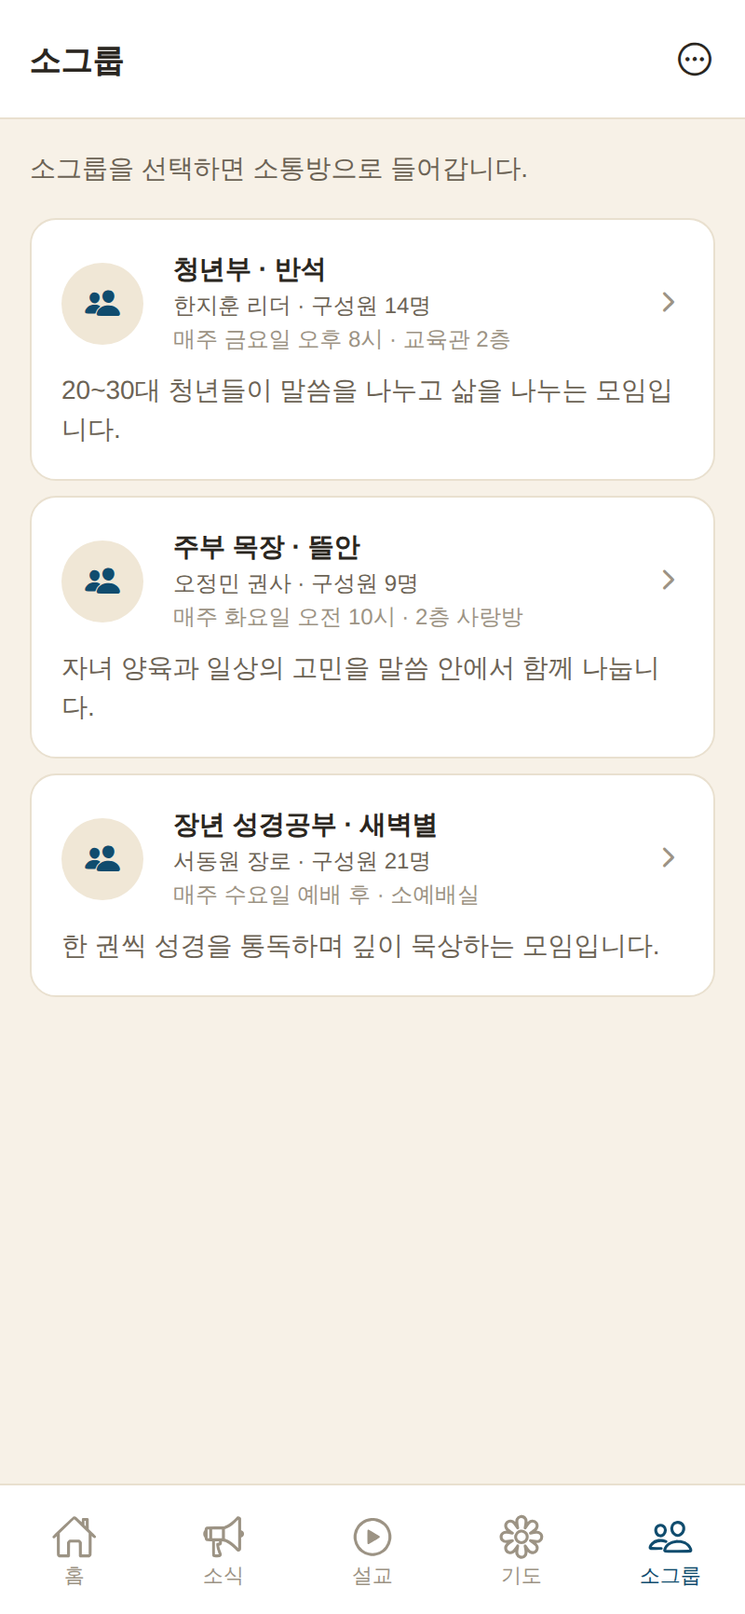
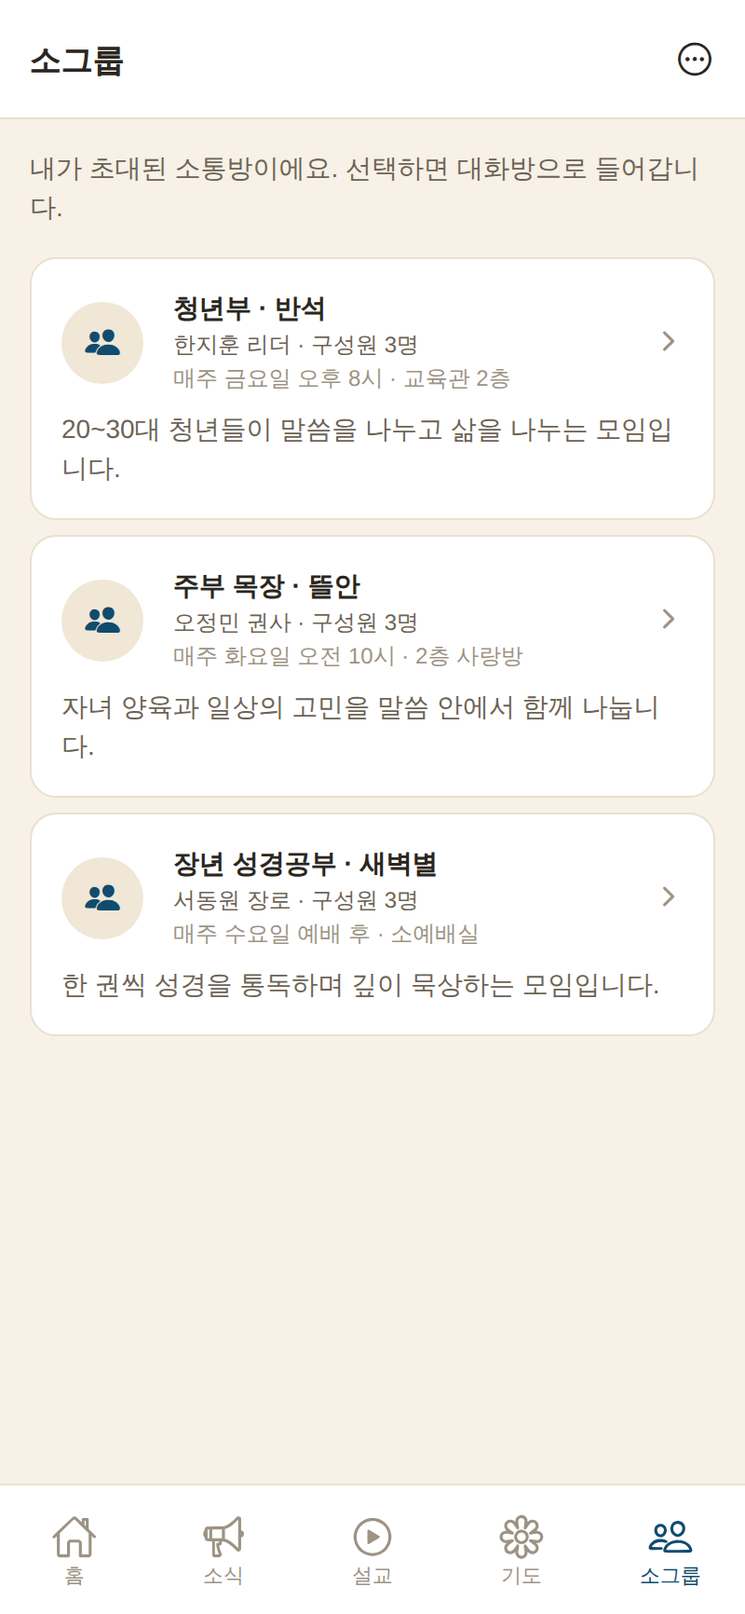
사용설명서 업데이트: 소통방·기도 알림 3개·기도노트·기도제목 수정삭제
- 스크린샷 재촬영(소통방 방/멤버, 기도 알림 3개, 기도노트 카운터 등)
- 스크린샷 사용설명서 PDF 재생성, 사용설명서.md에 소통방 섹션·3개 알림·수정삭제 반영
- capture.js/build_manual.js 갱신(소통방 촬영, 알림 3개 플로우)

Claude-Session: https://claude.ai/code/session_01X34HoGSMxeUnKsbYKVCM6r

diff --git a/docs/manual-src/shots/manual.html b/docs/manual-src/shots/manual.html
@@ -28,7 +28,7 @@
   .tip .chip { background:#eee2c9; border-color:#e4d5b4; color:#6a5836; }
   .foot { text-align:center; color:#8a97a1; font-size: 9.5pt; margin-top: 8px; line-height:1.7; }
 </style></head><body>
-  <div class="cover"><div class="logo">⛪</div><h1>구리 목양교회 앱 사용설명서</h1><div class="sub">화면별 사용 안내 · 2026-09-07</div></div>
+  <div class="cover"><div class="logo">⛪</div><h1>구리 목양교회 앱 사용설명서</h1><div class="sub">화면별 사용 안내 · 2026-09-08</div></div>
   <div class="intro">화면별로 어떻게 쓰는지 하나씩 안내해 드립니다.</div>
   <div class="section">
     <div class="sechead">
@@ -75,16 +75,16 @@
 <div class="section">
     <div class="sechead">
       <div class="badge" style="background:#c1863a">🔔</div>
-      <div><div class="kicker">기도 · 새 기능</div><div class="title">기도 알림</div></div>
+      <div><div class="kicker">기도 · 새 기능</div><div class="title">기도 알림 (최대 3개)</div></div>
     </div>
-    <div class="shotwrap"><img class="phone" src="reminders.png"><div class="cap">기도 알림 설정</div></div><div class="ditem"><span class="chev">›</span><span>정한 <b>요일과 시간</b>에 “기도할 시간이에요 🙏” 알림을 휴대폰으로 받습니다.</span></div><div class="dhead">켜는 방법</div><div class="ditem"><span class="chev">›</span><span>기도 탭 → <b>기도 알림</b>으로 들어가 <b>알림 켜기</b>를 누르고 권한을 <b>허용</b>합니다.</span></div><div class="ditem"><span class="chev">›</span><span><b>요일</b>(여러 개 가능)을 켜고, <b>시간</b>은 <span class="chip">오전</span>/<span class="chip">오후</span> · <b>시(1~12)</b> · <b>분(00~59)</b> 으로 정한 뒤 <b>저장</b>.</span></div><div class="ditem"><span class="chev">›</span><span><b>테스트 알림 보내기</b>로 알림이 잘 뜨는지 바로 확인할 수 있어요.</span></div><div class="tip">· 안드로이드/PC는 브라우저에서 바로 옵니다. · 아이폰은 <b>사파리 → 홈 화면에 추가</b>로 설치한 앱에서 열어야 알림이 옵니다. · 소리+진동은 휴대폰을 <b>진동/소리+진동 모드</b>로 두거나 앱 알림을 “소리 및 진동”으로 설정하세요.</div>
+    <div class="shotwrap"><img class="phone" src="reminders.png"><div class="cap">기도 알림 · 한 사람당 3개까지</div></div><div class="ditem"><span class="chev">›</span><span>정한 <b>요일과 시간</b>에 “기도할 시간이에요 🙏” 알림을 휴대폰으로 받습니다.</span></div><div class="dhead">켜는 방법</div><div class="ditem"><span class="chev">›</span><span>기도 탭 → <b>기도 알림</b>으로 들어가 위쪽 <b>기도 알림 받기</b>를 켜고 권한을 <b>허용</b>합니다.</span></div><div class="ditem"><span class="chev">›</span><span>알림마다 <b>요일</b>(여러 개 가능)을 켜고, <b>시간</b>은 <span class="chip">오전</span>/<span class="chip">오후</span> · <b>시(1~12)</b> · <b>분(00~59)</b> 으로 정합니다.</span></div><div class="dhead">한 사람당 최대 3개</div><div class="ditem"><span class="chev">›</span><span><b>알림 추가</b>를 누르면 새벽·점심·저녁처럼 <b>서로 다른 시간의 알림을 최대 3개</b>까지 만들 수 있어요. (예: 새벽 5:30 · 점심 12:00 · 밤 9:00)</span></div><div class="ditem"><span class="chev">›</span><span>알림 오른쪽 위 <b>휴지통</b>으로 지우고, 다 정했으면 <b>이 설정으로 저장</b>을 누릅니다.</span></div><div class="ditem"><span class="chev">›</span><span><b>테스트 알림 보내기</b>로 알림이 잘 뜨는지 바로 확인할 수 있어요.</span></div><div class="tip">· 안드로이드/PC는 브라우저에서 바로 옵니다. · 아이폰은 <b>사파리 → 홈 화면에 추가</b>로 설치한 앱에서 열어야 알림이 옵니다. · 알림은 <b>기기마다</b> 따로 켜 주세요.</div>
   </div>
 <div class="section">
     <div class="sechead">
-      <div class="badge" style="background:#3a9fb0">👥</div>
-      <div><div class="kicker">아래 탭 · 소그룹</div><div class="title">소그룹</div></div>
+      <div class="badge" style="background:#3a9fb0">💬</div>
+      <div><div class="kicker">아래 탭 · 소통방</div><div class="title">소통방 (초대제 대화방)</div></div>
     </div>
-    <div class="shotwrap"><img class="phone" src="groups.png"><div class="cap">소그룹</div></div><div class="ditem"><span class="chev">›</span><span>소그룹(구역·목장)을 소개하고 대화를 나누는 곳입니다.</span></div><div class="ditem"><span class="chev">›</span><span>소그룹을 누르면 <b>모임 안내와 소통방</b>으로 들어갑니다.</span></div><div class="ditem"><span class="chev">›</span><span>대화는 <b>로그인한 성도</b>만 읽고 쓸 수 있어요.</span></div>
+    <div class="shotsrow"><div class="mini"><img src="groups.png"><div class="cap">내 소통방 목록</div></div><div class="mini"><img src="group_room.png"><div class="cap">소통방 대화</div></div><div class="mini"><img src="group_members.png"><div class="cap">멤버·초대·알림</div></div></div><div class="ditem"><span class="chev">›</span><span>소그룹(구역·목장)별 <b>비공개 대화방</b>입니다. <b>초대된 멤버만</b> 입장·대화할 수 있고, 대화 내용도 멤버끼리만 보입니다.</span></div><div class="dhead">누가 무엇을 하나요</div><div class="ditem"><span class="chev">›</span><span><b>관리자</b>가 소통방을 만들고, 앱에 가입한 성도 중에서 <b>리더를 지정</b>합니다.</span></div><div class="ditem"><span class="chev">›</span><span><b>리더</b>는 방 오른쪽 위 <span class="chip">사람 아이콘</span> → <b>멤버 초대</b>에서 성도 이름을 검색해 초대합니다.</span></div><div class="ditem"><span class="chev">›</span><span>초대받은 멤버가 방에 들어와 <b>대화</b>하고, 필요하면 <b>소통방 나가기</b>도 할 수 있어요.</span></div><div class="dhead">새 글 알림 (개인별)</div><div class="ditem"><span class="chev">›</span><span>방의 <b>사람 아이콘 → 이 소통방 알림</b>을 켜면, 새 글이 올라올 때 <b>앱을 닫아 두어도</b> 알림을 받습니다. <b>방마다 각자</b> 켜고 끌 수 있어요.</span></div><div class="tip">🔒 초대되지 않은 분에게는 소통방이 <b>아예 보이지 않습니다.</b> 초대는 앱에 <b>가입(로그인)한 적이 있는</b> 성도만 검색됩니다.</div>
   </div>
 <div class="section">
     <div class="sechead">
@@ -98,7 +98,7 @@
       <div class="badge" style="background:#17405c">🌸</div>
       <div><div class="kicker">기도 · 기도제목 나눔</div><div class="title">개인 기도제목 · 기도 요청</div></div>
     </div>
-    <div class="shotsrow"><div class="mini"><img src="prayer_topics.png"><div class="cap">개인 기도제목</div></div><div class="mini"><img src="prayer_requests.png"><div class="cap">기도 요청</div></div></div><div class="dhead">개인 기도제목</div><div class="ditem"><span class="chev">›</span><span><b>나만 보는</b> 기도제목을 적고 관리합니다. <b>기도제목 추가</b>로 새 제목을 적어요. (익명 여부 선택 가능)</span></div><div class="ditem"><span class="chev">›</span><span>응답되면 <b>기도 응답되었어요</b>로 표시할 수 있어요.</span></div><div class="dhead">기도 요청</div><div class="ditem"><span class="chev">›</span><span>개인 기도제목에서 <b>기도 요청으로 올리기</b>를 누르면 이 목록에 공개됩니다.</span></div><div class="ditem"><span class="chev">›</span><span>성도들이 <span class="chip">함께 기도</span>를 눌러 함께 기도할 수 있어요.</span></div>
+    <div class="shotsrow"><div class="mini"><img src="prayer_topics.png"><div class="cap">개인 기도제목</div></div><div class="mini"><img src="prayer_requests.png"><div class="cap">기도 요청 · 기도노트</div></div></div><div class="dhead">개인 기도제목</div><div class="ditem"><span class="chev">›</span><span><b>나만 보는</b> 기도제목을 적고 관리합니다. <b>기도제목 추가</b>로 새 제목을 적어요. (익명 여부 선택 가능)</span></div><div class="ditem"><span class="chev">›</span><span>카드 오른쪽 위 <span class="chip">✎ 연필</span>을 누르면 <b>제목·내용을 수정</b>하거나 <b>삭제</b>할 수 있어요.</span></div><div class="ditem"><span class="chev">›</span><span>응답되면 <b>기도 응답되었어요</b>로 표시하고, <b>기도 요청으로 올리기</b>로 성도들과 나눌 수 있어요.</span></div><div class="dhead">기도 요청 · 우리의 기도노트</div><div class="ditem"><span class="chev">›</span><span>맨 위 <b>우리의 기도노트</b>에 “하나님께서 우리 삶에서 일하고 계십니다.”와 함께 <b>기도제목·기도 중·응답됨·함께 기도</b> 현황이 한눈에 모입니다.</span></div><div class="ditem"><span class="chev">›</span><span>성도들이 <span class="chip">함께 기도</span>를 눌러 함께 기도하고, 응답된 기도가 쌓이는 것을 <b>다 같이</b> 확인해요.</span></div>
   </div>
 <div class="section">
     <div class="sechead">
@@ -112,7 +112,7 @@
       <div class="badge" style="background:#17405c">🛠</div>
       <div><div class="kicker">관리자 전용</div><div class="title">관리자 기능</div></div>
     </div>
-    <div class="shotsrow"><div class="mini"><img src="admin_home.png"><div class="cap">관리자 홈 · 전체 관리</div></div><div class="mini"><img src="admin_announcement.png"><div class="cap">공지 작성 화면</div></div><div class="mini"><img src="admin_newfamilies.png"><div class="cap">새가족 명단</div></div></div><div class="ditem"><span class="chev">›</span><span><b>관리자 계정</b>으로 로그인하면, 각 화면에서 내용을 직접 등록·수정할 수 있어요.</span></div><div class="ditem"><span class="chev">›</span><span><b>더보기 → 관리자 화면 열기</b>에서 전체 관리로 들어갑니다.</span></div><div class="ditem"><span class="chev">›</span><span>주보·공지(소식)·설교·섬기는 사람들·소그룹·공동 기도제목을 <b>추가·수정·삭제</b>.</span></div><div class="ditem"><span class="chev">›</span><span>새가족 등록 명단은 <b>관리자만</b> 볼 수 있어요.</span></div><div class="tip">🔑 관리자 권한이 필요하면 교회 담당자에게 문의해 주세요.</div>
+    <div class="shotsrow"><div class="mini"><img src="admin_home.png"><div class="cap">관리자 홈 · 전체 관리</div></div><div class="mini"><img src="admin_announcement.png"><div class="cap">공지 작성 화면</div></div><div class="mini"><img src="admin_newfamilies.png"><div class="cap">새가족 명단</div></div></div><div class="ditem"><span class="chev">›</span><span><b>관리자 계정</b>으로 로그인하면, 각 화면에서 내용을 직접 등록·수정할 수 있어요.</span></div><div class="ditem"><span class="chev">›</span><span><b>더보기 → 관리자 화면 열기</b>에서 전체 관리로 들어갑니다. 맨 위 <b>관리 현황</b>에서 주보·공지·소통방·섬김·설교 개수를 한눈에 봅니다.</span></div><div class="ditem"><span class="chev">›</span><span>주보·공지(소식)·설교·섬기는 사람들·공동 기도제목을 <b>추가·수정·삭제</b>.</span></div><div class="dhead">소통방 만들기</div><div class="ditem"><span class="chev">›</span><span><b>소통방 → 새로 등록</b>에서 방을 만들고, 성도를 검색해 <b>리더를 지정</b>합니다. 이후 초대·대화는 리더와 멤버가 진행합니다.</span></div><div class="ditem"><span class="chev">›</span><span>새가족 등록 명단은 <b>관리자만</b> 볼 수 있어요.</span></div><div class="tip">🔑 관리자 권한이 필요하면 교회 담당자에게 문의해 주세요.</div>
   </div>
   <div class="foot">구리 목양교회 · 031-551-1004<br>사용 중 궁금한 점은 교회 사무실로 문의해 주세요.</div>
 </body></html>

diff --git a/docs/manual-src/build_manual.js b/docs/manual-src/build_manual.js
@@ -99,23 +99,34 @@ sections.push(section({ badge: '👥', color: NAVY, kicker: '기도 · 공동', 
     { t: '각 제목의 **이 제목으로 기도**를 누르면 타이머가 돌고, 마치면 그 시간이 **전체 누적에 계속 쌓입니다.**' },
   ]) }));
 
-// 7. 기도 알림 (신규)
-sections.push(section({ badge: '🔔', color: AMBER, kicker: '기도 · 새 기능', title: '기도 알림',
-  body: phone('reminders.png', '기도 알림 설정') + desc([
+// 7. 기도 알림 (3개까지)
+sections.push(section({ badge: '🔔', color: AMBER, kicker: '기도 · 새 기능', title: '기도 알림 (최대 3개)',
+  body: phone('reminders.png', '기도 알림 · 한 사람당 3개까지') + desc([
     { t: '정한 **요일과 시간**에 “기도할 시간이에요 🙏” 알림을 휴대폰으로 받습니다.' },
     { h: '켜는 방법' },
-    { t: '기도 탭 → **기도 알림**으로 들어가 **알림 켜기**를 누르고 권한을 **허용**합니다.' },
-    { t: '**요일**(여러 개 가능)을 켜고, **시간**은 [[오전]]/[[오후]] · **시(1~12)** · **분(00~59)** 으로 정한 뒤 **저장**.' },
+    { t: '기도 탭 → **기도 알림**으로 들어가 위쪽 **기도 알림 받기**를 켜고 권한을 **허용**합니다.' },
+    { t: '알림마다 **요일**(여러 개 가능)을 켜고, **시간**은 [[오전]]/[[오후]] · **시(1~12)** · **분(00~59)** 으로 정합니다.' },
+    { h: '한 사람당 최대 3개' },
+    { t: '**알림 추가**를 누르면 새벽·점심·저녁처럼 **서로 다른 시간의 알림을 최대 3개**까지 만들 수 있어요. (예: 새벽 5:30 · 점심 12:00 · 밤 9:00)' },
+    { t: '알림 오른쪽 위 **휴지통**으로 지우고, 다 정했으면 **이 설정으로 저장**을 누릅니다.' },
     { t: '**테스트 알림 보내기**로 알림이 잘 뜨는지 바로 확인할 수 있어요.' },
-  ]) + tip('· 안드로이드/PC는 브라우저에서 바로 옵니다. · 아이폰은 **사파리 → 홈 화면에 추가**로 설치한 앱에서 열어야 알림이 옵니다. · 소리+진동은 휴대폰을 **진동/소리+진동 모드**로 두거나 앱 알림을 “소리 및 진동”으로 설정하세요.') }));
+  ]) + tip('· 안드로이드/PC는 브라우저에서 바로 옵니다. · 아이폰은 **사파리 → 홈 화면에 추가**로 설치한 앱에서 열어야 알림이 옵니다. · 알림은 **기기마다** 따로 켜 주세요.') }));
 
-// 8. 소그룹
-sections.push(section({ badge: '👥', color: TEAL, kicker: '아래 탭 · 소그룹', title: '소그룹',
-  body: phone('groups.png', '소그룹') + desc([
-    { t: '소그룹(구역·목장)을 소개하고 대화를 나누는 곳입니다.' },
-    { t: '소그룹을 누르면 **모임 안내와 소통방**으로 들어갑니다.' },
-    { t: '대화는 **로그인한 성도**만 읽고 쓸 수 있어요.' },
-  ]) }));
+// 8. 소통방 (비공개 소그룹)
+sections.push(section({ badge: '💬', color: TEAL, kicker: '아래 탭 · 소통방', title: '소통방 (초대제 대화방)',
+  body: phones([
+    { src: 'groups.png', cap: '내 소통방 목록' },
+    { src: 'group_room.png', cap: '소통방 대화' },
+    { src: 'group_members.png', cap: '멤버·초대·알림' },
+  ]) + desc([
+    { t: '소그룹(구역·목장)별 **비공개 대화방**입니다. **초대된 멤버만** 입장·대화할 수 있고, 대화 내용도 멤버끼리만 보입니다.' },
+    { h: '누가 무엇을 하나요' },
+    { t: '**관리자**가 소통방을 만들고, 앱에 가입한 성도 중에서 **리더를 지정**합니다.' },
+    { t: '**리더**는 방 오른쪽 위 [[사람 아이콘]] → **멤버 초대**에서 성도 이름을 검색해 초대합니다.' },
+    { t: '초대받은 멤버가 방에 들어와 **대화**하고, 필요하면 **소통방 나가기**도 할 수 있어요.' },
+    { h: '새 글 알림 (개인별)' },
+    { t: '방의 **사람 아이콘 → 이 소통방 알림**을 켜면, 새 글이 올라올 때 **앱을 닫아 두어도** 알림을 받습니다. **방마다 각자** 켜고 끌 수 있어요.' },
+  ]) + tip('🔒 초대되지 않은 분에게는 소통방이 **아예 보이지 않습니다.** 초대는 앱에 **가입(로그인)한 적이 있는** 성도만 검색됩니다.') }));
 
 // 9. 교회 안내 · 기타
 sections.push(section({ badge: '⛪', color: GOLD, kicker: '홈 · 교회 안내', title: '교회 안내 · 기타 화면',
@@ -134,13 +145,14 @@ sections.push(section({ badge: '⛪', color: GOLD, kicker: '홈 · 교회 안내
 
 // 10. 개인 기도제목 · 기도 요청
 sections.push(section({ badge: '🌸', color: NAVY, kicker: '기도 · 기도제목 나눔', title: '개인 기도제목 · 기도 요청',
-  body: phones([{ src: 'prayer_topics.png', cap: '개인 기도제목' }, { src: 'prayer_requests.png', cap: '기도 요청' }]) + desc([
+  body: phones([{ src: 'prayer_topics.png', cap: '개인 기도제목' }, { src: 'prayer_requests.png', cap: '기도 요청 · 기도노트' }]) + desc([
     { h: '개인 기도제목' },
     { t: '**나만 보는** 기도제목을 적고 관리합니다. **기도제목 추가**로 새 제목을 적어요. (익명 여부 선택 가능)' },
-    { t: '응답되면 **기도 응답되었어요**로 표시할 수 있어요.' },
-    { h: '기도 요청' },
-    { t: '개인 기도제목에서 **기도 요청으로 올리기**를 누르면 이 목록에 공개됩니다.' },
-    { t: '성도들이 [[함께 기도]]를 눌러 함께 기도할 수 있어요.' },
+    { t: '카드 오른쪽 위 [[✎ 연필]]을 누르면 **제목·내용을 수정**하거나 **삭제**할 수 있어요.' },
+    { t: '응답되면 **기도 응답되었어요**로 표시하고, **기도 요청으로 올리기**로 성도들과 나눌 수 있어요.' },
+    { h: '기도 요청 · 우리의 기도노트' },
+    { t: '맨 위 **우리의 기도노트**에 “하나님께서 우리 삶에서 일하고 계십니다.”와 함께 **기도제목·기도 중·응답됨·함께 기도** 현황이 한눈에 모입니다.' },
+    { t: '성도들이 [[함께 기도]]를 눌러 함께 기도하고, 응답된 기도가 쌓이는 것을 **다 같이** 확인해요.' },
   ]) }));
 
 // 11. 더보기(설정)
@@ -158,8 +170,10 @@ sections.push(section({ badge: '🛠', color: NAVY, kicker: '관리자 전용', 
     { src: 'admin_home.png', cap: '관리자 홈 · 전체 관리' }, { src: 'admin_announcement.png', cap: '공지 작성 화면' }, { src: 'admin_newfamilies.png', cap: '새가족 명단' },
   ]) + desc([
     { t: '**관리자 계정**으로 로그인하면, 각 화면에서 내용을 직접 등록·수정할 수 있어요.' },
-    { t: '**더보기 → 관리자 화면 열기**에서 전체 관리로 들어갑니다.' },
-    { t: '주보·공지(소식)·설교·섬기는 사람들·소그룹·공동 기도제목을 **추가·수정·삭제**.' },
+    { t: '**더보기 → 관리자 화면 열기**에서 전체 관리로 들어갑니다. 맨 위 **관리 현황**에서 주보·공지·소통방·섬김·설교 개수를 한눈에 봅니다.' },
+    { t: '주보·공지(소식)·설교·섬기는 사람들·공동 기도제목을 **추가·수정·삭제**.' },
+    { h: '소통방 만들기' },
+    { t: '**소통방 → 새로 등록**에서 방을 만들고, 성도를 검색해 **리더를 지정**합니다. 이후 초대·대화는 리더와 멤버가 진행합니다.' },
     { t: '새가족 등록 명단은 **관리자만** 볼 수 있어요.' },
   ]) + tip('🔑 관리자 권한이 필요하면 교회 담당자에게 문의해 주세요.') }));
 
@@ -193,7 +207,7 @@ const html = `<!doctype html><html lang="ko"><head><meta charset="utf-8"><style>
   .tip .chip { background:#eee2c9; border-color:#e4d5b4; color:#6a5836; }
   .foot { text-align:center; color:#8a97a1; font-size: 9.5pt; margin-top: 8px; line-height:1.7; }
 </style></head><body>
-  <div class="cover"><div class="logo">⛪</div><h1>구리 목양교회 앱 사용설명서</h1><div class="sub">화면별 사용 안내 · 2026-09-07</div></div>
+  <div class="cover"><div class="logo">⛪</div><h1>구리 목양교회 앱 사용설명서</h1><div class="sub">화면별 사용 안내 · 2026-09-08</div></div>
   <div class="intro">화면별로 어떻게 쓰는지 하나씩 안내해 드립니다.</div>
   ${sections.join('\n')}
   <div class="foot">구리 목양교회 · 031-551-1004<br>사용 중 궁금한 점은 교회 사무실로 문의해 주세요.</div>

diff --git a/docs/manual-src/capture.js b/docs/manual-src/capture.js
@@ -92,6 +92,9 @@ async function shot(page, base, route, name, opts = {}) {
       await p.waitForTimeout(1600);
     }});
     await shot(page, base, '/groups', 'groups');
+    // 소통방 방(대화) + 멤버·초대 화면 (샘플 모드에서는 '나'가 리더로 보입니다)
+    await shot(page, base, '/groups/group-1', 'group_room', { wait: 3000 });
+    await shot(page, base, '/group-members/group-1', 'group_members', { wait: 2800 });
     await shot(page, base, '/services', 'services');
     await shot(page, base, '/staff', 'staff');
     await shot(page, base, '/location', 'location');
@@ -114,7 +117,7 @@ async function shot(page, base, route, name, opts = {}) {
     await ctx.close();
   }
 
-  // ── Reminders pass (dist-rem, guest click flow) ──
+  // ── Reminders pass (dist-rem, Supabase 모드라 알림 UI 가 보입니다) — 3개까지 설정 ──
   {
     const ctx = await newCtx(browser, null);
     const page = await ctx.newPage();
@@ -122,14 +125,28 @@ async function shot(page, base, route, name, opts = {}) {
       await page.goto(rbase + '/', { waitUntil: 'networkidle', timeout: 20000 });
     } catch (e) { console.log('rem goto', e.message); }
     await page.waitForTimeout(2500);
+    // 표어 화면 → 손님으로 입장 (앱 내부 이동으로 상태를 유지합니다)
     try { await page.getByText('손님으로 둘러보기', { exact: true }).click({ timeout: 6000 }); } catch (e) { console.log('guest click', e.message); }
     await page.waitForTimeout(2500);
     // 기도 탭 (하단 4번째)
     try { await page.mouse.click(280, 838); } catch (e) {}
     await page.waitForTimeout(2500);
-    // 기도 알림 카드로 이동 시도
+    // 기도 알림 카드 → 알림 설정 화면 (앱 내부 이동)
     try { await page.getByText('기도 알림', { exact: false }).first().click({ timeout: 5000 }); } catch (e) { console.log('reminder card', e.message); }
     await page.waitForTimeout(2600);
+    // '알림 추가'를 두 번 눌러 3개 설정 화면을 보여 줍니다.
+    for (let k = 0; k < 2; k++) {
+      try { await page.getByText('알림 추가', { exact: true }).click({ timeout: 4000 }); } catch (e) { console.log('add reminder', e.message); }
+      await page.waitForTimeout(700);
+    }
+    // 맨 위(마스터 토글 + 1번 알림)부터 보이도록 스크롤을 올립니다.
+    try {
+      await page.evaluate(() => {
+        document.querySelectorAll('*').forEach((el) => { if (el.scrollHeight > el.clientHeight) el.scrollTop = 0; });
+        window.scrollTo(0, 0);
+      });
+    } catch (e) {}
+    await page.waitForTimeout(800);
     await page.screenshot({ path: path.join(OUT, 'reminders.png') });
     console.log('shot reminders');
     await ctx.close();

diff --git a/docs/사용설명서.md b/docs/사용설명서.md
@@ -13,9 +13,10 @@
 3. [기도 기능 사용법](#3-기도-기능-사용법)
 4. [기도 알림 받기 (요일·시간 알림)](#4-기도-알림-받기-요일시간-알림)
 5. [실시간 예배 보기](#5-실시간-예배-보기)
-6. [로그인과 내 기록](#6-로그인과-내-기록)
-7. [관리자 사용법](#7-관리자-사용법)
-8. [자주 묻는 질문](#8-자주-묻는-질문)
+6. [소통방 (초대제 대화방)](#6-소통방-초대제-대화방)
+7. [로그인과 내 기록](#7-로그인과-내-기록)
+8. [관리자 사용법](#8-관리자-사용법)
+9. [자주 묻는 질문](#9-자주-묻는-질문)
 
 ---
 
@@ -47,7 +48,7 @@
 | **소식** | 공지 / 행사 / 소식, 상단 고정글, 상세 보기 |
 | **설교** | 시리즈·쇼츠별 목록, 앱 안에서 바로 재생(쇼츠는 세로 화면) |
 | **기도** | 기도 타이머, 달성률·달력·평균 그래프, 기도제목 나눔, 기도 알림 설정 |
-| **소그룹** | 소그룹 목록과 소통방(채팅) |
+| **소통방** | 내가 초대된 소통방 목록과 대화방(초대제) |
 
 이 밖에 **교회 안내**(예배 안내·섬기는 사람들·오시는 길·새가족·헌금)와
 **더보기**(로그인·교회 정보·유튜브 채널 연결)가 있습니다.
@@ -81,7 +82,10 @@
 ### 기도제목 나누기
 - **개인 기도제목** / **기도 요청** 카드로 들어가 제목을 올릴 수 있습니다.
 - 올릴 때 **익명**으로도 가능하고, 다른 성도가 **"함께 기도"** 로 마음을 보탤 수 있습니다.
+- 내가 올린 개인 기도제목은 카드의 **연필(✎)** 아이콘으로 **수정·삭제**할 수 있습니다.
 - 응답된 기도는 **응답 표시**를 할 수 있습니다.
+- **기도 요청** 화면 맨 위 **우리의 기도노트**에서 “하나님께서 우리 삶에서 일하고 계십니다.” 문구와 함께
+  **기도제목·기도 중·응답됨·함께 기도** 현황을 온 성도가 함께 확인합니다.
 
 ---
 
@@ -91,12 +95,17 @@
 
 ### 켜는 방법
 1. **기도 탭 → 기도 알림** (또는 더보기 → 기도 알림) 으로 들어갑니다.
-2. **"알림 켜기"** 를 누르고, 브라우저가 물으면 **허용**합니다.
-3. **요일**(여러 개 선택 가능)을 켜고,
+2. 위쪽 **"기도 알림 받기"** 를 켜고, 브라우저가 물으면 **허용**합니다.
+3. 알림마다 **요일**(여러 개 선택 가능)을 켜고,
 4. **시간**을 정합니다 — **오전/오후** 탭, **시(1~12)**, **분(00~59)** 을 골라요.
 5. **"이 설정으로 저장"** 을 누르면 끝입니다.
 
 이후 정한 요일·시간이 되면 자동으로 알림이 옵니다.
+
+### 한 사람당 최대 3개
+- **"알림 추가"** 를 누르면 **서로 다른 시간의 알림을 최대 3개**까지 만들 수 있습니다.
+  (예: **새벽 5:30 · 점심 12:00 · 밤 9:00**)
+- 각 알림 오른쪽 위 **휴지통**으로 지울 수 있습니다.
 
 ### 확인·팁
 - **"테스트 알림 보내기"** 버튼을 누르면 알림이 잘 뜨는지 바로 확인할 수 있습니다.
@@ -116,7 +125,23 @@
 
 ---
 
-## 6. 로그인과 내 기록
+## 6. 소통방 (초대제 대화방)
+
+소그룹(구역·목장)별 **비공개 대화방**입니다. **초대된 멤버만** 입장·대화할 수 있고, 대화 내용도 멤버끼리만 보입니다.
+
+### 누가 무엇을 하나요
+- **관리자**가 소통방을 만들고, 앱에 가입한 성도 중에서 **리더를 지정**합니다.
+- **리더**는 방 오른쪽 위 **사람 아이콘 → 멤버 초대** 에서 성도 이름을 검색해 초대합니다.
+- 초대받은 멤버가 방에 들어와 **대화**하고, 필요하면 **소통방 나가기** 도 할 수 있습니다.
+- 초대되지 않은 분에게는 소통방이 **아예 보이지 않습니다.** (초대는 앱에 **가입/로그인한 적이 있는** 성도만 검색됩니다.)
+
+### 새 글 알림 (개인별)
+- 방의 **사람 아이콘 → "이 소통방 알림"** 을 켜면, 새 글이 올라올 때 **앱을 닫아 두어도** 알림을 받습니다.
+- 알림은 **방마다 각자** 켜고 끌 수 있습니다.
+
+---
+
+## 7. 로그인과 내 기록
 
 - 로그인 없이도 대부분의 화면을 볼 수 있습니다.
 - **로그인**(더보기 → 로그인)하면, 나의 기도 시간이 **계정에 저장**되어
@@ -125,7 +150,7 @@
 
 ---
 
-## 7. 관리자 사용법
+## 8. 관리자 사용법
 
 관리자 계정으로 로그인하면 **관리자 화면**에서 콘텐츠를 직접 관리할 수 있습니다.
 
@@ -140,14 +165,19 @@
 - 자동 감지가 기본이지만, 관리자 설정에서 **강제 ON/OFF** 스위치로
   배지를 직접 켜거나 끌 수 있습니다. (특별 방송 등에 활용)
 
+### 소통방 만들기
+- 관리자 → **소통방 → 새로 등록** 에서 방을 만들고, 성도를 검색해 **리더를 지정**합니다.
+- 이후 **초대·대화**는 리더와 멤버가 진행합니다. (관리자는 모든 방을 볼 수 있습니다.)
+
 ### 그 밖의 관리
-- **공지 / 설교 / 소그룹** 등록·수정·삭제
+- 관리자 홈 맨 위 **관리 현황**에서 주보·공지·소통방·섬김·설교 개수를 한눈에 봅니다.
+- **공지 / 설교 / 섬기는 사람들** 등록·수정·삭제
 - **공동 기도제목** 편집
 - **새가족 등록 내역** 조회 (관리자만)
 
 ---
 
-## 8. 자주 묻는 질문
+## 9. 자주 묻는 질문
 
 **Q. 알림이 안 와요.**
 - 앱을 완전히 종료 후 다시 열어 보세요(최신화).
